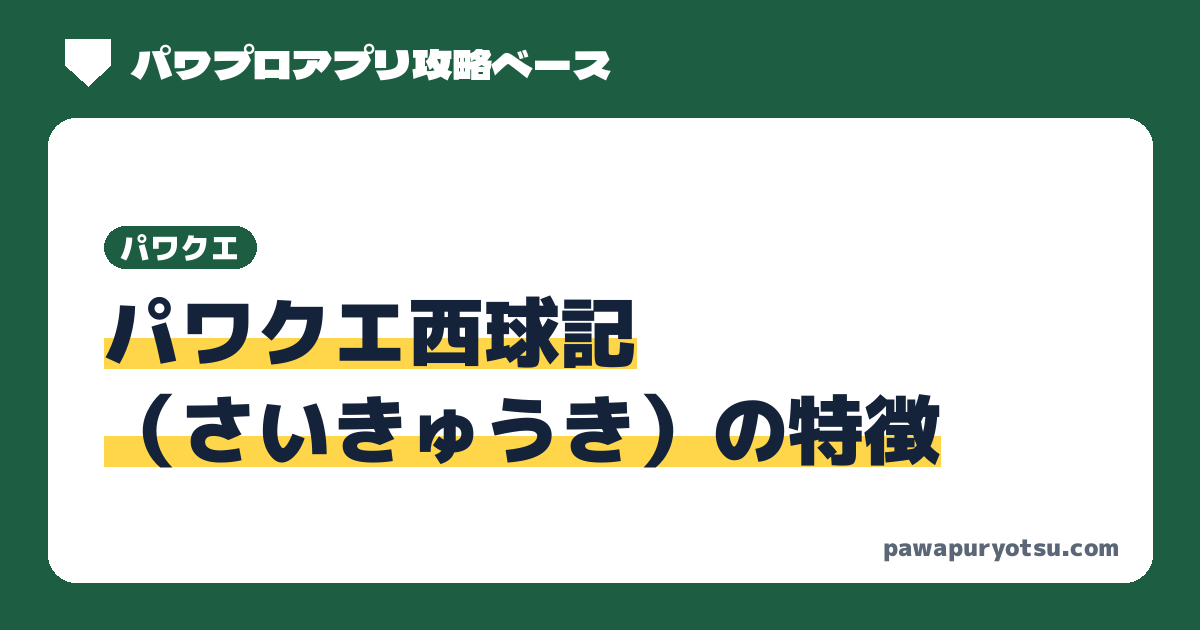
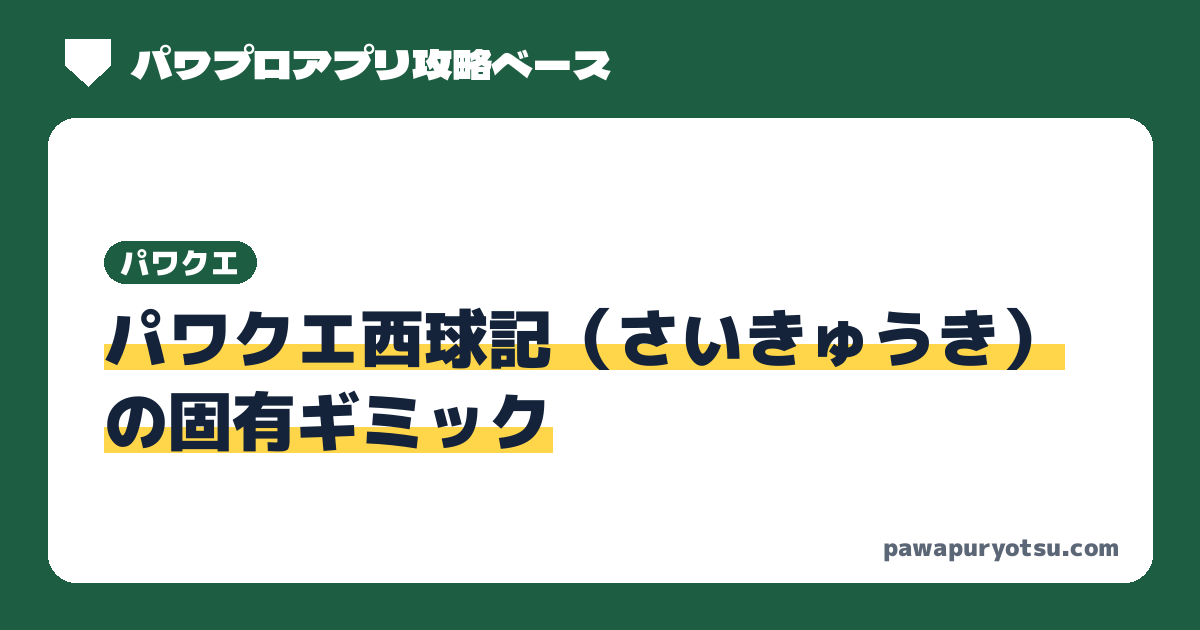
西球記の特徴を「西球記の固有ギミック」に改名、トップの最近の更新に西球記の下のページを出さない
Claude-Session: https://claude.ai/code/session_019YJeSzNy4VjMu3dL3K2Dga

Changed region(s): [[0.0617, 0.3317, 0.8942, 0.754]]

diff --git a/docs/pawaque/saikyuki/feature/index.html b/docs/pawaque/saikyuki/feature/index.html
@@ -4,13 +4,13 @@
 <meta charset="utf-8">
 <meta name="viewport" content="width=device-width,initial-scale=1,viewport-fit=cover">
 <meta name="color-scheme" content="light">
-<title>パワクエ西球記（さいきゅうき）の特徴｜パワプロアプリ攻略ベース</title>
-<meta name="description" content="パワプロアプリのパワクエ「西球記（さいきゅうき）」の特徴をまとめます。">
+<title>パワクエ西球記（さいきゅうき）の固有ギミック｜パワプロアプリ攻略ベース</title>
+<meta name="description" content="パワプロアプリのパワクエ「西球記（さいきゅうき）」の固有ギミック（仙術・神前試合マス）をまとめています。">
 <link rel="canonical" href="https://pawapuryotsu.com/pawaque/saikyuki/feature/">
 <meta property="og:type" content="website">
 <meta property="og:site_name" content="パワプロアプリ攻略ベース">
-<meta property="og:title" content="パワクエ西球記（さいきゅうき）の特徴｜パワプロアプリ攻略ベース">
-<meta property="og:description" content="パワプロアプリのパワクエ「西球記（さいきゅうき）」の特徴をまとめます。">
+<meta property="og:title" content="パワクエ西球記（さいきゅうき）の固有ギミック｜パワプロアプリ攻略ベース">
+<meta property="og:description" content="パワプロアプリのパワクエ「西球記（さいきゅうき）」の固有ギミック（仙術・神前試合マス）をまとめています。">
 <meta property="og:url" content="https://pawapuryotsu.com/pawaque/saikyuki/feature/">
 <meta property="og:image" content="https://pawapuryotsu.com/img/og/pawaque_saikyuki_feature.png">
 <meta property="og:image:width" content="1200">
@@ -29,7 +29,7 @@
 <script async src="https://pagead2.googlesyndication.com/pagead/js/adsbygoogle.js?client=ca-pub-8546020269968696" crossorigin="anonymous"></script>
 <script async src="https://www.googletagmanager.com/gtag/js?id=G-F98XGNW3LS"></script>
 <script>window.dataLayer=window.dataLayer||[];function gtag(){dataLayer.push(arguments)}gtag('js',new Date());gtag('config','G-F98XGNW3LS');</script><meta name="google-site-verification" content="ZgxID967oum-2Mm1F5BCX9gvQE_vNl2ZDbXXWfyYP10" />
-<script type="application/ld+json">{"@context": "https://schema.org", "@type": "BreadcrumbList", "itemListElement": [{"@type": "ListItem", "position": 1, "name": "トップ", "item": "https://pawapuryotsu.com/"}, {"@type": "ListItem", "position": 2, "name": "パワクエ", "item": "https://pawapuryotsu.com/pawaque/"}, {"@type": "ListItem", "position": 3, "name": "西球記", "item": "https://pawapuryotsu.com/pawaque/saikyuki/"}, {"@type": "ListItem", "position": 4, "name": "特徴", "item": "https://pawapuryotsu.com/pawaque/saikyuki/feature/"}]}</script>
+<script type="application/ld+json">{"@context": "https://schema.org", "@type": "BreadcrumbList", "itemListElement": [{"@type": "ListItem", "position": 1, "name": "トップ", "item": "https://pawapuryotsu.com/"}, {"@type": "ListItem", "position": 2, "name": "パワクエ", "item": "https://pawapuryotsu.com/pawaque/"}, {"@type": "ListItem", "position": 3, "name": "西球記", "item": "https://pawapuryotsu.com/pawaque/saikyuki/"}, {"@type": "ListItem", "position": 4, "name": "固有ギミック", "item": "https://pawapuryotsu.com/pawaque/saikyuki/feature/"}]}</script>
 </head>
 <body data-root="../../../">
 <svg width="0" height="0" style="position:absolute" aria-hidden="true">
@@ -56,10 +56,10 @@
 </div></header>
 
 <main><div class="wrap" id="page">
-<nav class="crumbs" aria-label="パンくずリスト"><ol><li><a href="../../../">トップ</a></li><li><a href="../../../pawaque/">パワクエ</a></li><li><a href="../../../pawaque/saikyuki/">西球記</a></li><li aria-current="page">特徴</li></ol></nav>
+<nav class="crumbs" aria-label="パンくずリスト"><ol><li><a href="../../../">トップ</a></li><li><a href="../../../pawaque/">パワクエ</a></li><li><a href="../../../pawaque/saikyuki/">西球記</a></li><li aria-current="page">固有ギミック</li></ol></nav>
 <!-- 下書き（2026-11-16）：形だけ。文章は管理人の原稿どおり（推測で書かない）。中身が入ったら noindex の行を消して公開する。
      description と card も原稿に合わせて直す。 -->
-<section class="phead"><p class="eyebrow">パワクエ 西球記</p><h1><span class="mk"><i>西球記の特徴</i></span></h1><p>パワクエ<span class="cp-nw">「西球記（さいきゅうき）」</span>の特徴を<span class="cp-nw">まとめました。</span></p></section>
+<section class="phead"><p class="eyebrow">パワクエ 西球記</p><h1><span class="mk"><i>西球記の固有ギミック</i></span></h1><p>パワクエ<span class="cp-nw">「西球記（さいきゅうき）」</span>の固有ギミックを<span class="cp-nw">まとめました。</span></p></section>
 <div class="prose">
   <img class="pq-img" src="../../../img/pawaque/saikyuki_logo.png" alt="西球記のロゴ" width="235" height="130" style="border:0">
   <nav class="toc" aria-label="このページの目次">

diff --git a/docs/index.html b/docs/index.html
@@ -72,7 +72,7 @@
 </section>
 
 <h2 class="sec"><span class="mk red"><i>最近の更新</i></span></h2>
-<!--recent--><ul class="news recent"><li class=rc-noimg><a href="./pawaque/saikyuki/shinzen/"><span><small class="rc-meta">2026/11/16 更新・パワクエ</small><b>神前試合まとめ</b></span></a></li><li class=rc-noimg><a href="./pawaque/saikyuki/feature/"><span><small class="rc-meta">2026/11/16 更新・パワクエ</small><b>特徴</b></span></a></li><li class=rc-noimg><a href="./pawaque/saikyuki/drop/"><span><small class="rc-meta">2026/11/16 更新・パワクエ</small><b>重要アイテム周回方法</b></span></a></li><li class=rc-noimg><a href="./pawaque/saikyuki/contract/"><span><small class="rc-meta">2026/11/16 更新・パワクエ</small><b>ドロップ契約書まとめ</b></span></a></li><li class=rc-noimg><a href="./pawaque/saikyuki/quest/"><span><small class="rc-meta">2026/11/16 更新・パワクエ</small><b>クエスト一覧</b></span></a></li><li class=rc-noimg><a href="./pawaque/saikyuki/"><span><small class="rc-meta">2026/11/16 更新・パワクエ</small><b>パワクエ西球記の攻略</b></span></a></li><li class=rc-noimg><a href="./pawaque/mission/"><span><small class="rc-meta">2026/11/16 更新・パワクエ</small><b>ミッション報酬まとめ</b></span></a></li><li class=rc-noimg><a href="./pawaque/coach/"><span><small class="rc-meta">2026/11/16 更新・パワクエ</small><b>コーチ専用選手の作り方</b></span></a></li></ul><!--/recent-->
+<!--recent--><ul class="news recent"><li class=rc-noimg><a href="./pawaque/saikyuki/"><span><small class="rc-meta">2026/11/16 更新・パワクエ</small><b>パワクエ西球記の攻略</b></span></a></li><li class=rc-noimg><a href="./pawaque/mission/"><span><small class="rc-meta">2026/11/16 更新・パワクエ</small><b>ミッション報酬まとめ</b></span></a></li><li class=rc-noimg><a href="./pawaque/coach/"><span><small class="rc-meta">2026/11/16 更新・パワクエ</small><b>コーチ専用選手の作り方</b></span></a></li><li class=rc-noimg><a href="./pawaque/basics/"><span><small class="rc-meta">2026/11/16 更新・パワクエ</small><b>パワクエ超基本まとめ</b></span></a></li><li class=rc-noimg><a href="./pawaque/"><span><small class="rc-meta">2026/11/16 更新・パワクエ</small><b>パワクエ攻略まとめ</b></span></a></li><li class=rc-noimg><a href="./chars/combo/"><span><small class="rc-meta">2026/11/16 更新・イベキャラ</small><b>コンボイベント一覧</b></span></a></li><li><a href="./chars/0041/"><img class="news-icon" src="./img/chars/0041.png" alt="" width="44" height="44" loading="lazy"><span><small class="rc-meta">2026/11/16 更新・イベキャラ</small><b>[復活の二刀流]大谷翔平<wbr><span class="cp-nw">のイベント・評価</span></b></span></a></li><li><a href="./chars/0040/"><img class="news-icon" src="./img/chars/0040.png" alt="" width="44" height="44" loading="lazy"><span><small class="rc-meta">2026/11/16 更新・イベキャラ</small><b>松坂大輔<wbr><span class="cp-nw">のイベント・評価</span></b></span></a></li></ul><!--/recent-->
 
 <h2 class="sec"><span class="mk orange"><i>ガチャ</i></span></h2>
 <div class="grid2">

diff --git a/src/pages/pawaque-saikyuki.html b/src/pages/pawaque-saikyuki.html
@@ -17,7 +17,7 @@ pq_order: 5
   <section class="sk-nav" aria-label="西球記の関連ページ">
   <p class="sk-nav-h">西球記の攻略ページ</p>
   <div class="sk-grid">
-    <a class="sk-c" href="{{root}}pawaque/saikyuki/feature/"><span class="sk-th sk-img"><img src="{{root}}img/pawaque/saikyuki_logo.png" alt="西球記のロゴ" width="235" height="130"></span><span class="sk-l">西球記の特徴</span></a>
+    <a class="sk-c" href="{{root}}pawaque/saikyuki/feature/"><span class="sk-th sk-img"><img src="{{root}}img/pawaque/saikyuki_logo.png" alt="西球記のロゴ" width="235" height="130"></span><span class="sk-l">西球記の固有ギミック</span></a>
     <a class="sk-c" href="{{root}}pawaque/saikyuki/quest/"><span class="sk-th sk-img"><img src="{{root}}img/pawaque/saikyuki_link_quest.jpg" alt="クエスト一覧の画面" width="374" height="148"></span><span class="sk-l">クエスト一覧</span></a>
     <a class="sk-c" href="{{root}}pawaque/saikyuki/drop/"><span class="sk-th sk-img"><img src="{{root}}img/pawaque/saikyuki_link_drop.jpg" alt="交渉の指輪" width="311" height="121"></span><span class="sk-l">重要アイテム<span class="cp-nw">周回方法</span></span></a>
     <a class="sk-c" href="{{root}}pawaque/saikyuki/shinzen/"><span class="sk-th sk-img"><img src="{{root}}img/pawaque/saikyuki_link_shinzen.jpg" alt="神前試合の画面" width="660" height="334"></span><span class="sk-l">神前試合<span class="cp-nw">まとめ</span></span></a>
@@ -32,7 +32,7 @@ pq_order: 5
   <h2 id="plan">配信されたら載せること</h2>
   <p>配信後、実際に遊んで分かったことから順に<span class="cp-nw">追記します。</span></p>
   <ul>
-    <li>西球記の特徴（別のページに<span class="cp-nw">まとめます）</span></li>
+    <li>西球記の固有ギミック（別のページに<span class="cp-nw">まとめます）</span></li>
     <li>クエスト一覧（別のページに<span class="cp-nw">まとめます）</span></li>
     <li>重要アイテム<span class="cp-nw">周回方法</span>（別のページに<span class="cp-nw">まとめます）</span></li>
     <li>神前試合まとめ（別のページに<span class="cp-nw">まとめます）</span></li>

diff --git a/docs/pawaque/saikyuki/index.html b/docs/pawaque/saikyuki/index.html
@@ -66,7 +66,7 @@
   <section class="sk-nav" aria-label="西球記の関連ページ">
   <p class="sk-nav-h">西球記の攻略ページ</p>
   <div class="sk-grid">
-    <a class="sk-c" href="../../pawaque/saikyuki/feature/"><span class="sk-th sk-img"><img src="../../img/pawaque/saikyuki_logo.png" alt="西球記のロゴ" width="235" height="130"></span><span class="sk-l">西球記の特徴</span></a>
+    <a class="sk-c" href="../../pawaque/saikyuki/feature/"><span class="sk-th sk-img"><img src="../../img/pawaque/saikyuki_logo.png" alt="西球記のロゴ" width="235" height="130"></span><span class="sk-l">西球記の固有ギミック</span></a>
     <a class="sk-c" href="../../pawaque/saikyuki/quest/"><span class="sk-th sk-img"><img src="../../img/pawaque/saikyuki_link_quest.jpg" alt="クエスト一覧の画面" width="374" height="148"></span><span class="sk-l">クエスト一覧</span></a>
     <a class="sk-c" href="../../pawaque/saikyuki/drop/"><span class="sk-th sk-img"><img src="../../img/pawaque/saikyuki_link_drop.jpg" alt="交渉の指輪" width="311" height="121"></span><span class="sk-l">重要アイテム<span class="cp-nw">周回方法</span></span></a>
     <a class="sk-c" href="../../pawaque/saikyuki/shinzen/"><span class="sk-th sk-img"><img src="../../img/pawaque/saikyuki_link_shinzen.jpg" alt="神前試合の画面" width="660" height="334"></span><span class="sk-l">神前試合<span class="cp-nw">まとめ</span></span></a>
@@ -81,7 +81,7 @@
   <h2 id="plan">配信されたら載せること</h2>
   <p>配信後、実際に遊んで分かったことから順に<span class="cp-nw">追記します。</span></p>
   <ul>
-    <li>西球記の特徴（別のページに<span class="cp-nw">まとめます）</span></li>
+    <li>西球記の固有ギミック（別のページに<span class="cp-nw">まとめます）</span></li>
     <li>クエスト一覧（別のページに<span class="cp-nw">まとめます）</span></li>
     <li>重要アイテム<span class="cp-nw">周回方法</span>（別のページに<span class="cp-nw">まとめます）</span></li>
     <li>神前試合まとめ（別のページに<span class="cp-nw">まとめます）</span></li>

diff --git a/src/pages/pawaque-saikyuki-feature.html b/src/pages/pawaque-saikyuki-feature.html
@@ -1,16 +1,16 @@
 <!--
-title: パワクエ西球記（さいきゅうき）の特徴｜パワプロアプリ攻略ベース
-description: パワプロアプリのパワクエ「西球記（さいきゅうき）」の特徴をまとめます。
+title: パワクエ西球記（さいきゅうき）の固有ギミック｜パワプロアプリ攻略ベース
+description: パワプロアプリのパワクエ「西球記（さいきゅうき）」の固有ギミック（仙術・神前試合マス）をまとめています。
 path: pawaque/saikyuki/feature/
 nav: pawaque
-crumb: 特徴
-card_title: 西球記の特徴
-card: 西球記の特徴を<span class="cp-nw">まとめました。</span>
+crumb: 固有ギミック
+card_title: 西球記の固有ギミック
+card: 西球記の固有ギミックを<span class="cp-nw">まとめました。</span>
 pq_order: 6
 -->
 <!-- 下書き（2026-11-16）：形だけ。文章は管理人の原稿どおり（推測で書かない）。中身が入ったら noindex の行を消して公開する。
      description と card も原稿に合わせて直す。 -->
-<section class="phead"><p class="eyebrow">パワクエ 西球記</p><h1><span class="mk"><i>西球記の特徴</i></span></h1><p>パワクエ<span class="cp-nw">「西球記（さいきゅうき）」</span>の特徴を<span class="cp-nw">まとめました。</span></p></section>
+<section class="phead"><p class="eyebrow">パワクエ 西球記</p><h1><span class="mk"><i>西球記の固有ギミック</i></span></h1><p>パワクエ<span class="cp-nw">「西球記（さいきゅうき）」</span>の固有ギミックを<span class="cp-nw">まとめました。</span></p></section>
 <div class="prose">
   <img class="pq-img" src="{{root}}img/pawaque/saikyuki_logo.png" alt="西球記のロゴ" width="235" height="130" style="border:0">
   <nav class="toc" aria-label="このページの目次">
